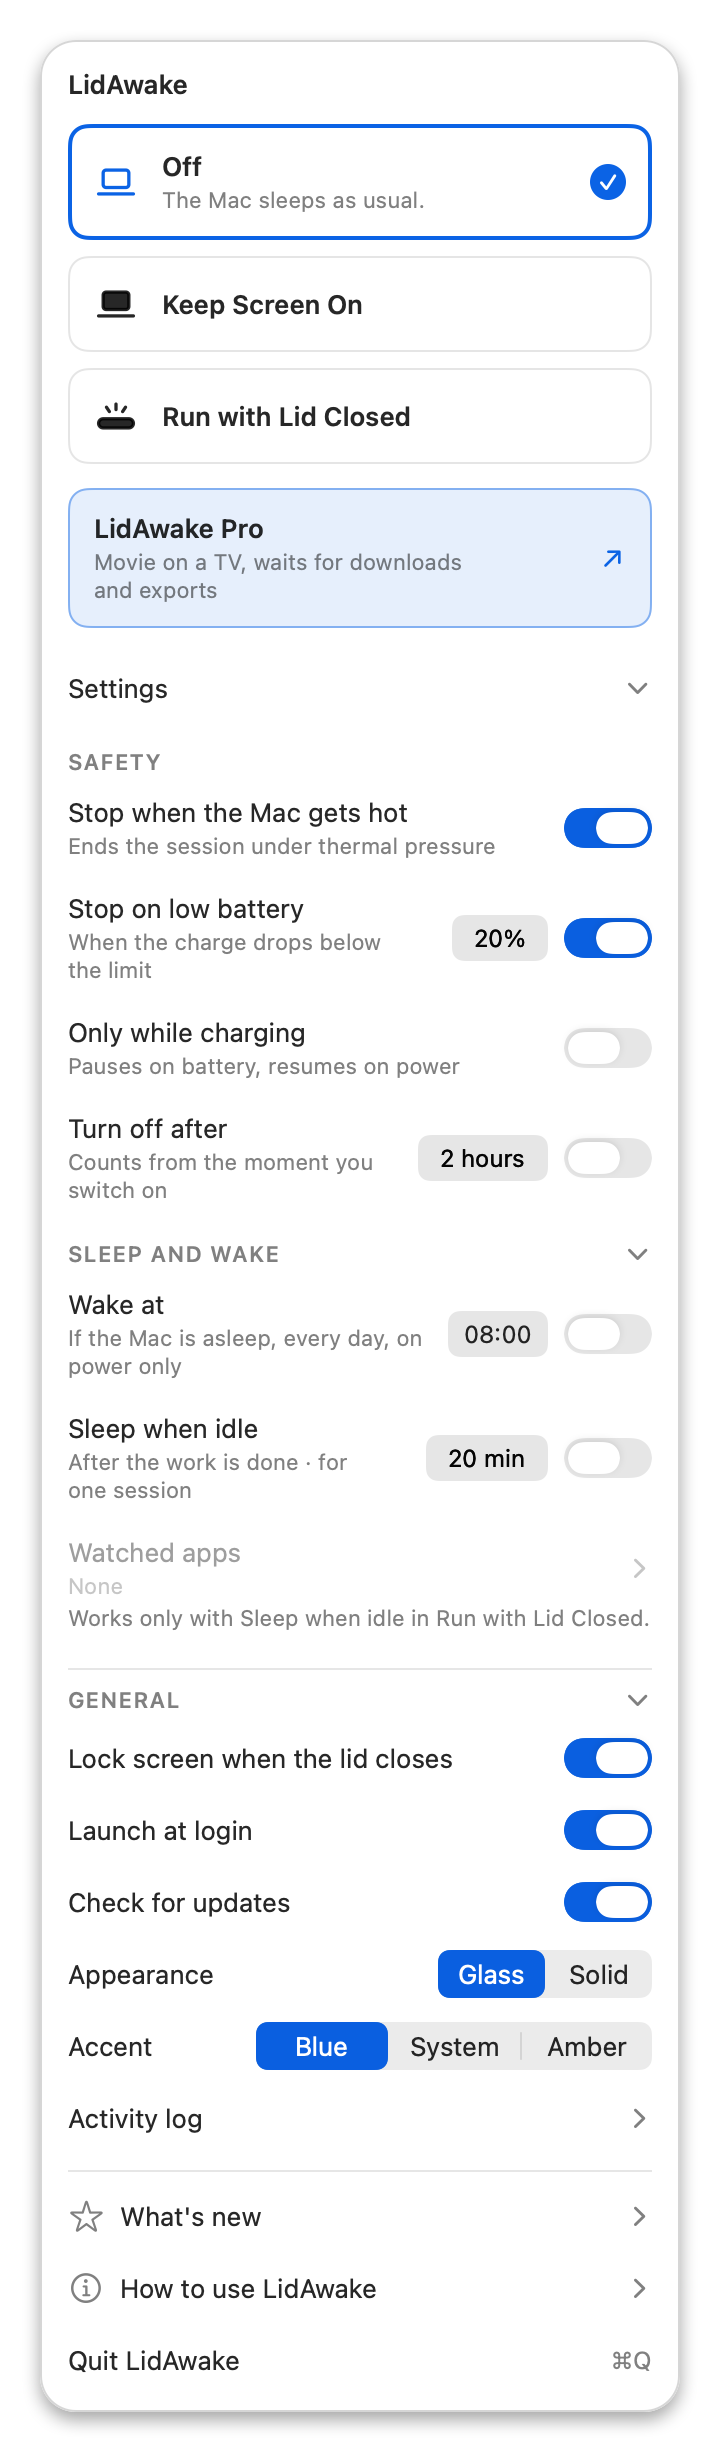
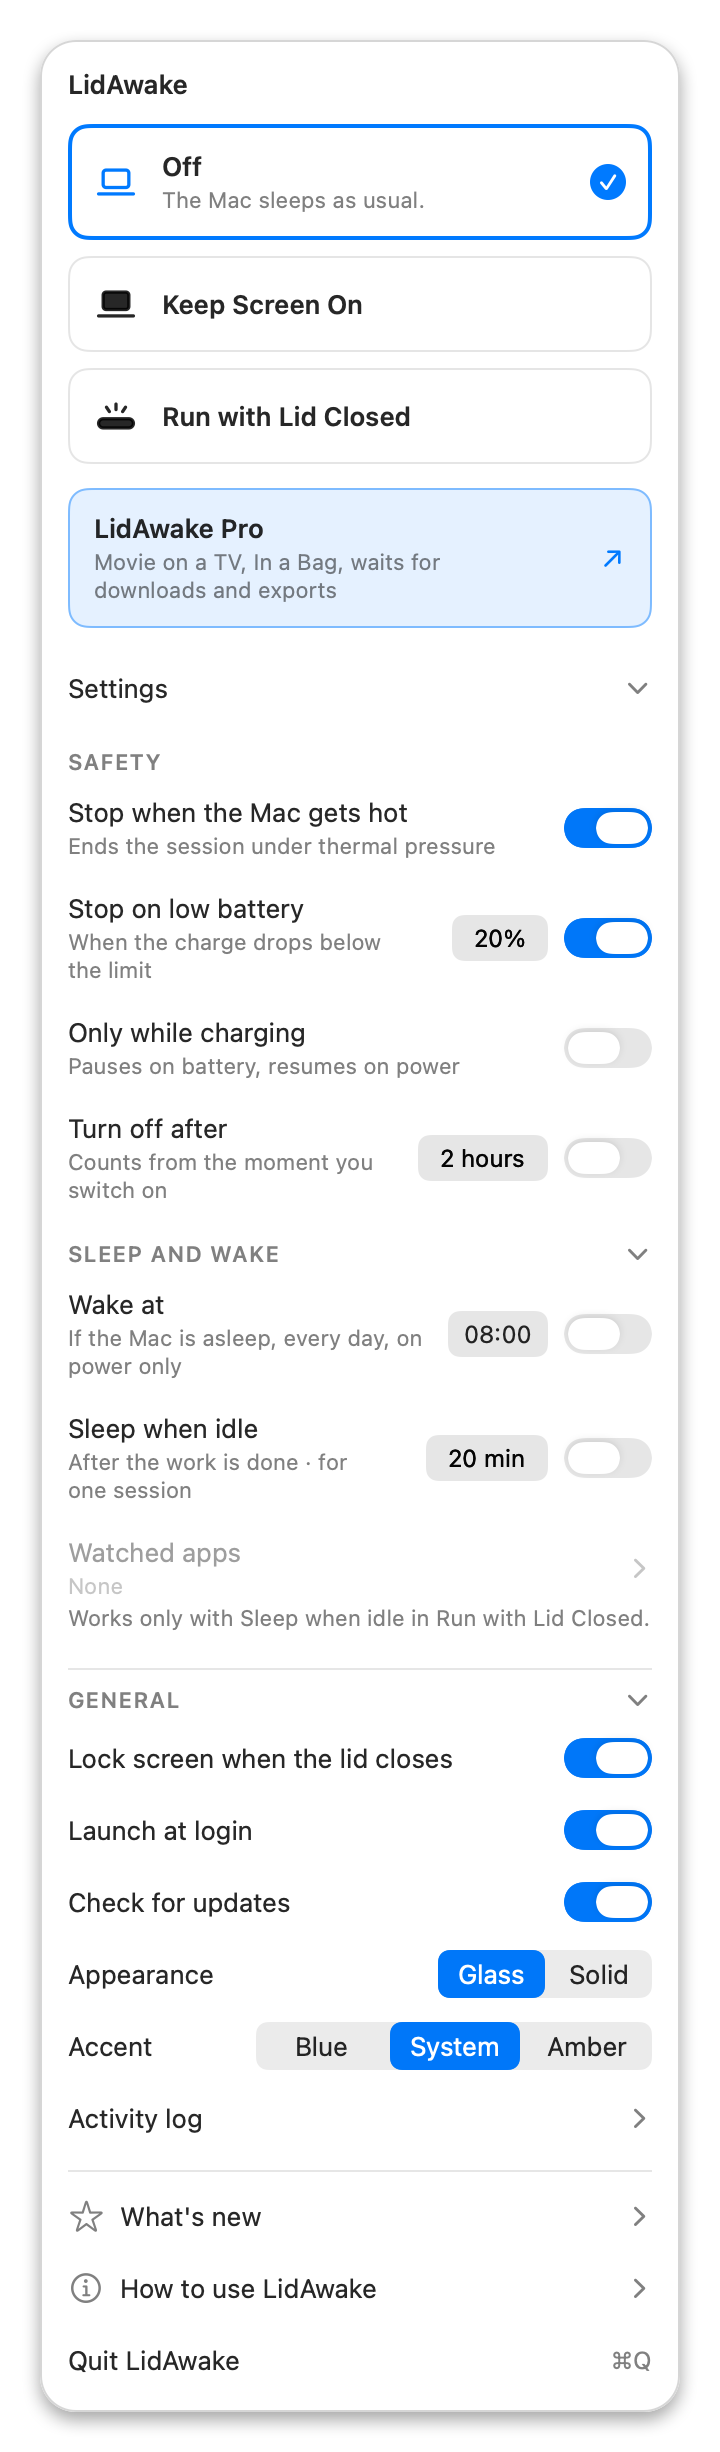
List In a Bag on the LidAwake Pro card

diff --git a/Sources/LidAwake/ContentView.swift b/Sources/LidAwake/ContentView.swift
@@ -960,7 +960,7 @@ private struct ProOfferRow: View {
                     Text(verbatim: "LidAwake Pro")
                         .font(.system(size: 13, weight: .semibold))
                         .foregroundStyle(Color.primary)
-                    Text("Movie on a TV, waits for downloads and exports")
+                    Text("Movie on a TV, In a Bag, waits for downloads and exports")
                         .font(.system(size: 11))
                         .foregroundStyle(.secondary)
                         .fixedSize(horizontal: false, vertical: true)
@@ -980,7 +980,7 @@ private struct ProOfferRow: View {
             .contentShape(shape)
         }
         .buttonStyle(.plain)
-        .accessibilityLabel(Text(verbatim: "LidAwake Pro, ") + Text("Movie on a TV, waits for downloads and exports"))
+        .accessibilityLabel(Text(verbatim: "LidAwake Pro, ") + Text("Movie on a TV, In a Bag, waits for downloads and exports"))
     }
 }
 
@@ -1008,7 +1008,7 @@ private struct ProDiscountRow: View {
                             .padding(.vertical, 1)
                             .background(Capsule().fill(accent))
                     }
-                    Text("Movie on a TV, waits for downloads and exports")
+                    Text("Movie on a TV, In a Bag, waits for downloads and exports")
                         .font(.system(size: 11))
                         .foregroundStyle(.secondary)
                         .fixedSize(horizontal: false, vertical: true)
@@ -1053,7 +1053,7 @@ private struct ProDiscountRow: View {
 
     private var accessibilityText: Text {
         var text = Text(verbatim: "LidAwake Pro, ") + Text("−\(offer.percent)%") + Text(verbatim: ", ")
-            + Text("Movie on a TV, waits for downloads and exports")
+            + Text("Movie on a TV, In a Bag, waits for downloads and exports")
             + Text(verbatim: ", \(oldPrice) → \(newPrice)")
         if let lastDay {
             text = text + Text(verbatim: ", ") + Text("until \(lastDay)")
